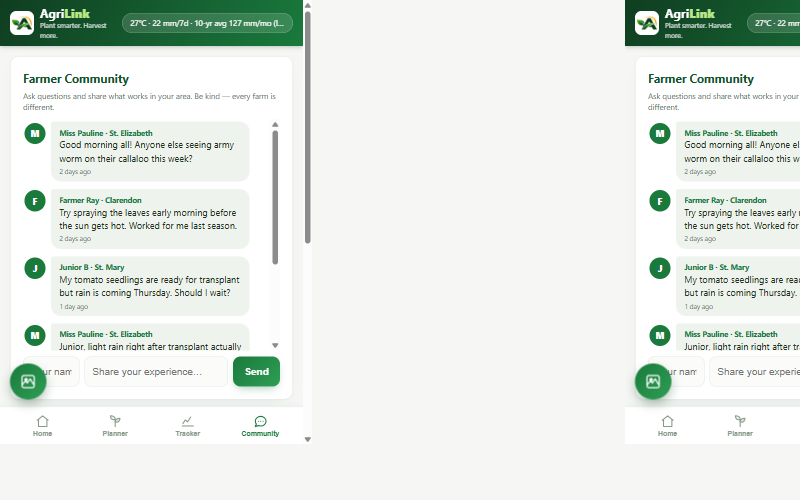
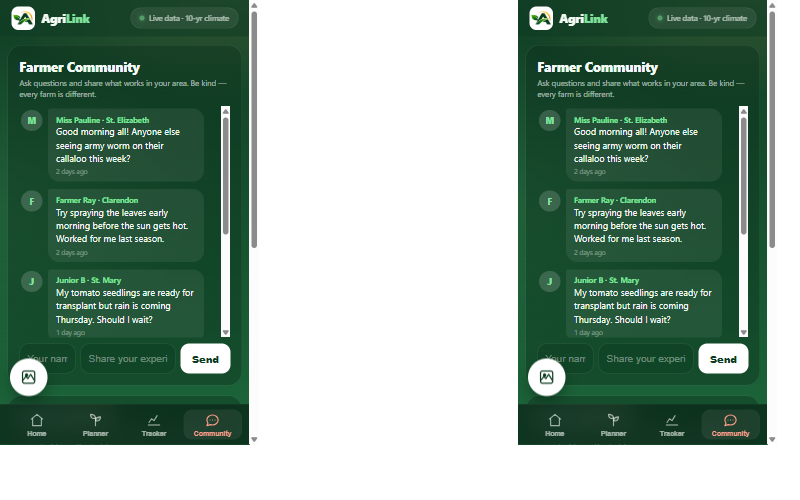
Hero polish, live-data chip, TOP PICK fix, forecast dots, brighter tabs, fresh screenshots

diff --git a/css/styles.css b/css/styles.css
@@ -76,17 +76,24 @@ h3 { font-size: 17px; }
 .logo p { font-size: 10.5px; color: var(--ink-faint); }
 
 .weather-chip {
+  display: inline-flex; align-items: center; gap: 7px;
   background: var(--glass);
   border: 1px solid var(--glass-line);
   border-radius: 999px;
-  padding: 6px 13px;
+  padding: 7px 14px;
   font-size: 12px;
+  font-weight: 600;
   color: var(--ink-dim);
   white-space: nowrap;
-  overflow: hidden;
-  text-overflow: ellipsis;
-  max-width: 52vw;
 }
+.weather-chip::before {
+  content: "";
+  width: 8px; height: 8px; border-radius: 50%;
+  background: var(--mint);
+  box-shadow: 0 0 10px var(--mint);
+  animation: pulse 2s ease infinite;
+}
+@keyframes pulse { 50% { opacity: .45; } }
 
 /* ---------- layout ---------- */
 main { max-width: 560px; margin: 0 auto; padding: 18px 16px; }
@@ -100,17 +107,19 @@ main { max-width: 560px; margin: 0 auto; padding: 18px 16px; }
   background: rgba(11, 46, 26, .38);
   border: 1px solid var(--glass-line);
   border-radius: var(--radius);
-  padding: 20px;
-  margin-bottom: 14px;
+  padding: 22px;
+  margin-bottom: 16px;
 }
 .card.soft { background: var(--glass-strong); }
 
 /* ---------- HOME: the big hero (like a weather app's temp) ---------- */
 .hero-place { font-size: 22px; font-weight: 800; letter-spacing: -.02em; margin-top: 4px; }
-.hero-row { display: flex; align-items: flex-end; justify-content: space-between; gap: 10px; margin-top: 2px; }
-.hero-temp { font-size: 64px; font-weight: 200; line-height: 1; letter-spacing: -.03em; }
-.hero-temp small { font-size: 20px; font-weight: 600; color: var(--ink-dim); }
-.farm-actions { display: flex; gap: 8px; margin-top: 14px; }
+.hero-row { display: flex; align-items: center; justify-content: space-between; gap: 10px; margin-top: 4px; }
+.hero-temp { font-size: 78px; font-weight: 100; line-height: .95; letter-spacing: -.04em; }
+.hero-temp small { display: block; font-size: 13px; font-weight: 600; letter-spacing: .06em; color: var(--ink-faint); text-transform: uppercase; margin-top: 6px; }
+.hero-condition { margin-top: 12px; font-size: 13.5px; color: var(--ink-dim); }
+.hero-condition b { color: var(--mint); font-weight: 700; }
+.farm-actions { display: flex; gap: 8px; }
 
 .farm-row { display: flex; align-items: flex-start; justify-content: space-between; gap: 8px; }
 
@@ -152,6 +161,9 @@ main { max-width: 560px; margin: 0 auto; padding: 18px 16px; }
 .forecast-day .f-day { font-size: 10px; font-weight: 700; text-transform: uppercase; letter-spacing: .08em; color: var(--ink-faint); }
 .forecast-day .f-temp { font-size: 15px; font-weight: 800; }
 .forecast-day .f-rain { font-size: 11px; color: var(--rain); font-weight: 600; }
+.forecast-day .f-dot { width: 5px; height: 5px; border-radius: 50%; background: transparent; align-self: center; }
+.forecast-day.good .f-dot { background: var(--mint); box-shadow: 0 0 8px var(--mint); }
+.forecast-day.wet .f-dot { background: var(--sun); box-shadow: 0 0 8px var(--sun); }
 .forecast-day.wet .f-rain { color: var(--sun); font-weight: 800; }
 
 /* ---------- tip of the day ---------- */
@@ -232,7 +244,8 @@ main { max-width: 560px; margin: 0 auto; padding: 18px 16px; }
 }
 .pick.best .rank { background: rgba(255, 157, 138, .2); color: var(--coral); }
 .pick.best .icon { color: var(--coral); }
-.pick.best .pick-score .num, .pick.best .pick-score .bar div { color: var(--coral); background: var(--coral); }
+.pick.best .pick-score .num { color: var(--coral); }
+.pick.best .pick-score .bar div { background: var(--coral); }
 .pick .icon { width: 34px; height: 34px; color: var(--mint); flex: none; }
 .pick .pick-info { flex: 1; min-width: 0; }
 .pick .pick-name { font-weight: 800; font-size: 15.5px; }
@@ -438,7 +451,9 @@ input::placeholder { color: var(--ink-faint); }
 
 /* ---------- community ---------- */
 .chat-card { display: flex; flex-direction: column; }
-.chat-feed { display: flex; flex-direction: column; gap: 12px; max-height: 52vh; overflow-y: auto; padding: 4px 2px; margin: 10px 0; }
+.chat-feed { display: flex; flex-direction: column; gap: 12px; max-height: 52vh; overflow-y: auto; padding: 4px 6px 4px 2px; margin: 10px 0; scrollbar-width: thin; scrollbar-color: rgba(255,255,255,.18) transparent; }
+.chat-feed::-webkit-scrollbar { width: 4px; }
+.chat-feed::-webkit-scrollbar-thumb { background: rgba(255,255,255,.18); border-radius: 999px; }
 .msg { display: flex; gap: 9px; max-width: 92%; }
 .msg.other { align-self: flex-start; }
 .msg.mine  { align-self: flex-end; flex-direction: row-reverse; }
@@ -458,7 +473,7 @@ input::placeholder { color: var(--ink-faint); }
 .msg .when { font-size: 10.5px; color: var(--ink-faint); margin-top: 3px; }
 .chat-form { display: flex; gap: 8px; }
 .chat-form input { flex: 1; }
-#chat-name { flex: 0 0 90px; }
+#chat-name { flex: 0 0 84px; }
 .chat-form .btn-primary { margin-top: 0; width: auto; padding: 11px 18px; }
 
 /* ---------- problem board ---------- */
@@ -503,12 +518,12 @@ input::placeholder { color: var(--ink-faint); }
   flex: 1;
   background: none; border: none;
   display: flex; flex-direction: column; align-items: center; gap: 3px;
-  cursor: pointer; padding: 4px 0;
-  color: var(--ink-faint);
-  border-radius: 12px;
+  cursor: pointer; padding: 5px 0 4px;
+  color: var(--ink-dim);
+  border-radius: 14px;
 }
-.tab svg { width: 23px; height: 23px; }
-.tab span { font-size: 10.5px; font-weight: 600; }
+.tab svg { width: 24px; height: 24px; }
+.tab span { font-size: 11px; font-weight: 700; }
 .tab.active { color: var(--mint); background: rgba(255, 255, 255, .07); }
 .tab[data-screen="screen-community"].active { color: var(--coral); }
 

diff --git a/js/app.js b/js/app.js
@@ -253,6 +253,17 @@ async function loadFarmData(parishName) {
   renderTopPicks();
   renderForecastStrip();
   renderSeasonChips();
+  renderHeroCondition();
+}
+
+// One human line about the week ahead, right under the big temp.
+function renderHeroCondition() {
+  const el = document.getElementById("hero-condition");
+  if (!currentWeather || !currentWeather.daily) { el.textContent = ""; return; }
+  const rain7 = currentWeather.rain7;
+  if (rain7 < 10)      el.innerHTML = `Dry week ahead — <b>plan to irrigate</b> if you plant now.`;
+  else if (rain7 < 40) el.innerHTML = `A few showers around — <b>good week to plant</b>.`;
+  else                 el.innerHTML = `Wet week ahead — <b>mind drainage</b> before planting.`;
 }
 
 // 7-day forecast strip: one open column per day.
@@ -279,6 +290,7 @@ function renderForecastStrip() {
     }
     col.className = cls;
     col.innerHTML =
+      `<span class="f-dot"></span>` +
       `<span class="f-day">${i === 0 ? "Today" : dayNames[date.getDay()]}</span>` +
       `<span class="f-temp">${day.tmax}°</span>` +
       `<span class="f-rain">${day.rain} mm</span>`;
@@ -287,7 +299,10 @@ function renderForecastStrip() {
 
   // the practical answer: when should you actually plant this week?
   const plantBox = document.getElementById("plant-days");
-  if (goodDays.length) {
+  if (goodDays.length >= 5) {
+    plantBox.innerHTML = `The whole week looks gentle — <b>any day works</b>. Light rain all week.`;
+    plantBox.classList.remove("hidden");
+  } else if (goodDays.length) {
     plantBox.innerHTML = `Good days to plant this week: <b>${goodDays.join(" · ")}</b> — light rain settles seeds in, no washout.`;
     plantBox.classList.remove("hidden");
   } else if (currentWeather.daily.some((d) => d.rain >= 20)) {
@@ -322,10 +337,9 @@ function renderSeasonChips() {
 // One line of live status in the top bar.
 function updateWeatherChip(hasWeather, hasClimate) {
   const chip = document.getElementById("weather-chip");
-  if (!hasWeather) { chip.textContent = "Weather unavailable — sample data in use"; return; }
-  const liveLabel = currentWeather.live ? "live" : "sample";
-  const climateLabel = hasClimate ? `${currentClimate.years}-yr avg ${currentClimate.rain} mm/mo` : "climate offline";
-  chip.textContent = `${currentWeather.temp}°C · ${currentWeather.rain7} mm/7d · ${climateLabel} (${liveLabel})`;
+  if (!hasWeather) { chip.textContent = "Offline — sample data"; return; }
+  const climateLabel = hasClimate ? `${currentClimate.years}-yr climate` : "climate offline";
+  chip.textContent = currentWeather.live ? `Live data · ${climateLabel}` : `Sample data · ${climateLabel}`;
 }
 
 // Small stat strip on the Home "your farm" card.
@@ -334,7 +348,7 @@ function renderFarmStats() {
   if (!currentWeather) return;
   box.classList.remove("hidden");
   const climate = currentClimate ? `${currentClimate.rain}<small> mm/mo</small>` : "–";
-  document.getElementById("hero-temp").textContent = currentWeather.temp;
+  document.getElementById("hero-temp").textContent = currentWeather.temp + "°";
   box.innerHTML =
     `<div class="stat"><span class="label">Temp now</span><span class="value">${currentWeather.temp}<small> °C</small></span></div>` +
     `<div class="stat"><span class="label">Rain 7 days</span><span class="value">${currentWeather.rain7}<small> mm</small></span></div>` +

diff --git a/index.html b/index.html
@@ -37,12 +37,13 @@
         <span class="label">Your farm</span>
         <div class="hero-place" id="farm-place">Not set yet</div>
         <div class="hero-row">
-          <div class="hero-temp"><span id="hero-temp">–</span><small>°C now</small></div>
+          <div class="hero-temp"><span id="hero-temp">–</span><small>celsius · live</small></div>
           <div class="farm-actions">
             <button id="change-farm" class="btn-ghost">Change</button>
             <button id="replay-tutorial" class="btn-ghost">Tutorial</button>
           </div>
         </div>
+        <div class="hero-condition" id="hero-condition"></div>
         <div id="farm-stats" class="stat-strip hidden"></div>
       </div>
 
@@ -63,6 +64,7 @@
           <b id="tip-text">Loading tip…</b>
         </div>
       </div>
+    </section>
 
       <!-- about card (only shown before the farm is set up) -->
       <div class="card soft" id="how-it-works">
@@ -199,7 +201,7 @@
         <p class="muted small">Ask questions and share what works in your area. Be kind — every farm is different.</p>
         <div id="chat-feed" class="chat-feed"></div>
         <form id="chat-form" class="chat-form">
-          <input id="chat-name" type="text" placeholder="Your name" />
+          <input id="chat-name" type="text" placeholder="Name" />
           <input id="chat-message" type="text" placeholder="Share your experience…" required />
           <button type="submit" class="btn-primary">Send</button>
         </form>
@@ -273,6 +275,6 @@
   <script src="js/planner.js?v=8"></script>
   <script src="js/community.js?v=8"></script>
   <script src="js/problems.js?v=8"></script>
-  <script src="js/app.js?v=10"></script>
+  <script src="js/app.js?v=11"></script>
 </body>
 </html>

diff --git a/service-worker.js b/service-worker.js
@@ -4,7 +4,7 @@
    so it opens even when the farm has no signal.
 ============================================================ */
 
-const CACHE_NAME = "agrilink-v10";
+const CACHE_NAME = "agrilink-v11";
 const FILES_TO_CACHE = [
   "./",
   "./index.html",

diff --git a/docs/captions.md b/docs/captions.md
@@ -7,7 +7,7 @@ Each file below is named so it clearly describes what it shows.
 | `agrilink-app-flow-chart.svg` | **AgriLink app flow chart (clean redraw)** — how a farmer's location input is validated and processed into crop planning and growth tracking, ending in optimized yields. |
 | `agrilink-app-flow-chart-original.png` | **Original AgriLink flow chart** — the team's first-drawn version from the planning stage (source of the redraw above). |
 | `agrilink-official-logo.png` | **Official AgriLink logo** — the team's brand mark, used in the app header and app icons. |
-| `screenshot-home-location-screen.png` | **Home screen** — where the farmer enters their parish and town. Invalid input politely asks them to try again. |
+| `screenshot-home-screen.png` | **Home screen** — the farm hero (live temperature, place, stat strip), 7-day forecast with good-planting-day markers, and the tip of the day. |
 | `screenshot-crop-planner-screen.png` | **Predictive Crop Planner screen** — the crop picker with clean SVG icons and a planting recommendation with stat tiles (7-day forecast, climate average, temperature) and a confidence score. |
 | `screenshot-growth-tracker-screen.png` | **Growth Lifecycle Tracker screen** — the dated growth-stage roadmap with a progress bar showing how far the crop is from harvest. |
 | `screenshot-photo-check-and-problem-board.png` | **Crop Photo Check + Public Problem Board** — a plant photo analysed against our crop-problem dataset (colour bars + matched problems), and the public board where farmers report problems in their parish. |
